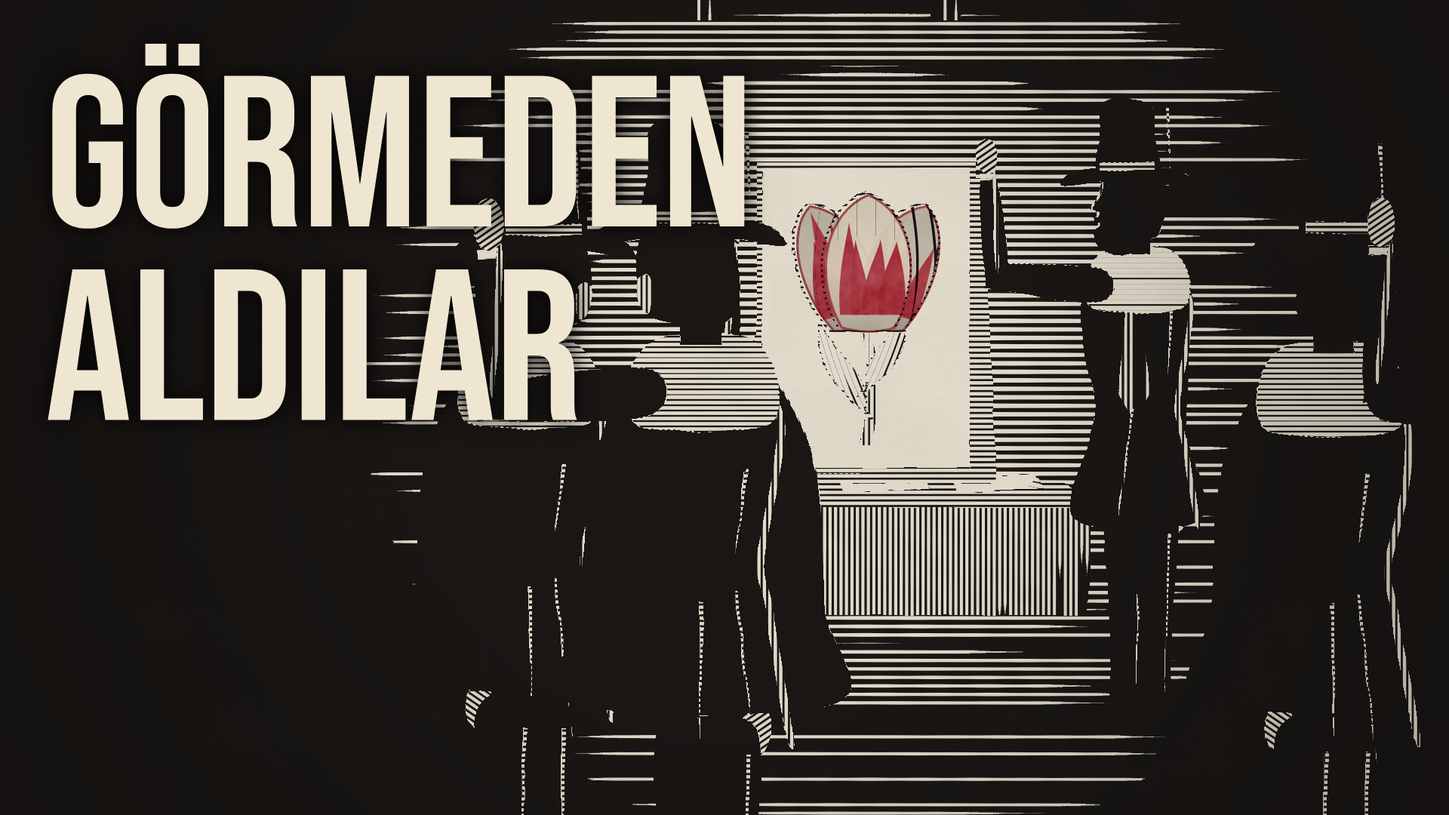
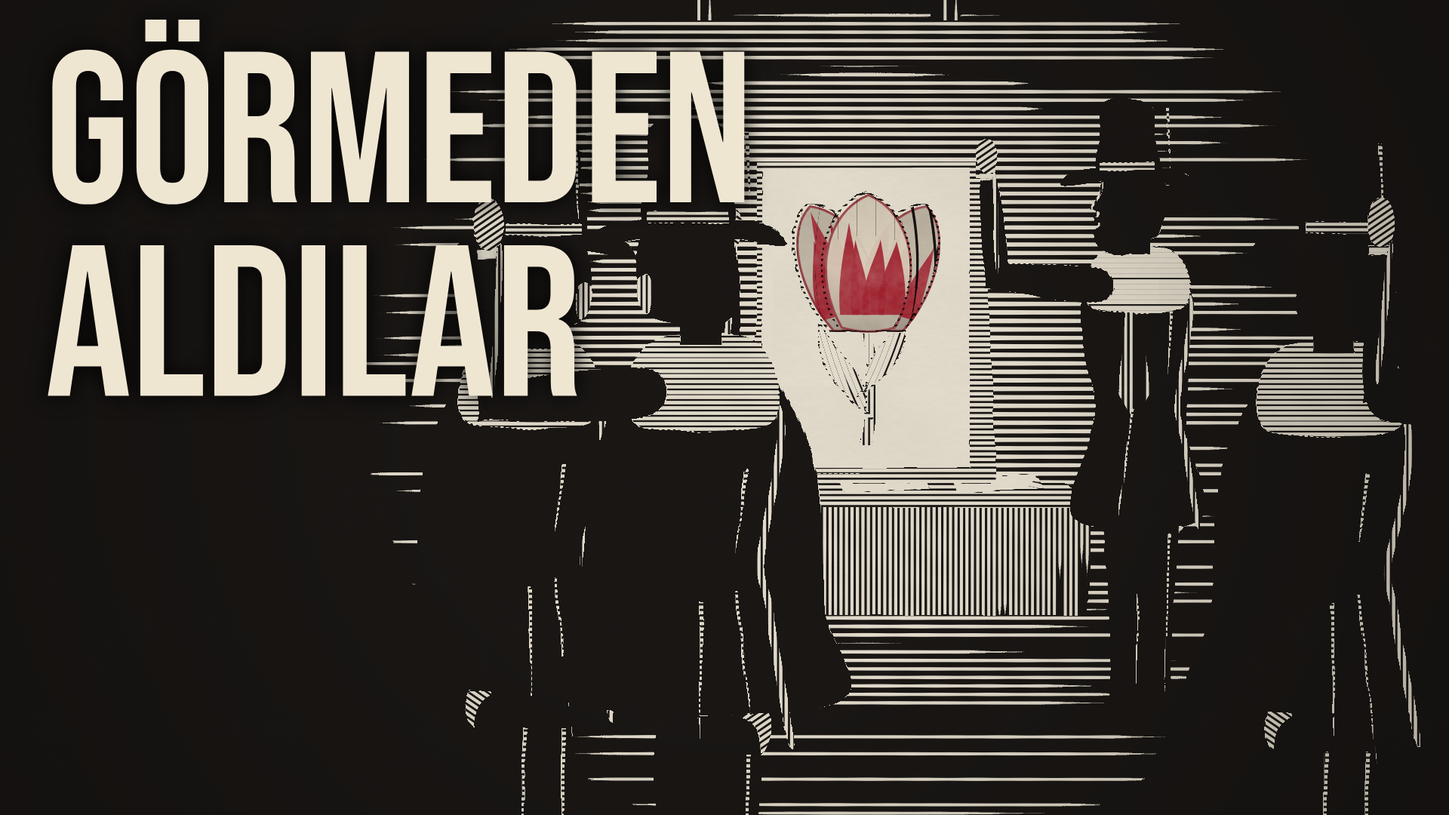
Lale Çılgınlığı: Fable yön okumasının son bulguları
- Meşaleler mızrak ucu gibi okunuyordu (hassasiyet): sargılı baş, geniş gövdeli yana kıvrılan alev, yan yalaz ve kıvılcım; kalabalığın kolları gövdede (sopa okuması), duvar meşalesi demir kolda ve sönünce sargılı başıyla kalıyor
- Zaman çizgisi kadrajın üstünde (0:44'te araba, 5:53'te figürlerle çakışıyordu); 5:53'te sayı yok ('EVE DÖNÜŞ'), anlatımdaki 'doksan yıl'la çelişmiyor
- Hollanda haritası 1,3 kat ve anılan şehrin adı noktanın yanında; harita plan içinde sönmüyor
- Ortalı etiket ve alıntı panelleri şerit: uzun yazının uçları açık zeminde soluk kalıyordu
- Araba tekerleği parmaklı (halka tarama hedef gibiydi); buketteki halka taramalar eğik
- Bacacının kolu dirsekten bükük, lale sapı yumruğun içinden geçiyor (selam okuması)
- Boş planlara eylem: senet masaya iner ve yırtık yukarıdan ilerler; boş sedire iki yandan iki kişi yürür; Ahmed Refik adı anılınca girer (iki ad tek figüre düşmüyor)
- Etiket dili: EL KOYMA, ÇIRAĞAN EĞLENCESİ, HOLLANDA MAHKEMESİ, ÜSKÜDAR'DA SEFER ORDUSU, KRONİKLER; Latin harfli aktarım satırı kaldırıldı
- Alkmaar listesine 5.200'ün neden orada olmadığı notu; Semper Augustus görseli 7 sn, belirgin yaklaşma; Switsers eğrisinin son değeri 2 sn duruyor
- P083 tek kalan para ve P066 yüzen kayık kaldırıldı; kapak B yazısı şapka kenarından 30 px uzak

Claude-Session: https://claude.ai/code/session_01DiDBPDZctK6KxWNTMmyQpA

Changed region(s): [[0.0312, 0.0, 0.5312, 0.5194]]

diff --git a/lale-cilginligi/lib/sahneler.js b/lale-cilginligi/lib/sahneler.js
@@ -35,13 +35,15 @@ const both = (...fs) => (ctx, st) => fs.forEach(f => f && f(ctx, st));
 const buyukYazi = (s, o = {}) => (ctx, st) => { const a = clamp((st.lt - (o.t0 || 0)) / .5); if (a <= 0) return; txt(ctx, s, o.x ?? W / 2, o.y ?? 160, { px: o.px || 96, ls: 6, a: E.sine(a), panel: .75, col: o.col }); };
 // Hollanda haritası (sağ üst köşe): izleyiciler şehirleri karıştırıyordu (Fable); anılan şehir yanar, öbürleri sönük nokta
 const NL = { 'ALKMAAR': [4.75, 52.63], 'HAARLEM': [4.64, 52.38], 'LEIDEN': [4.49, 52.16], 'AMSTERDAM': [4.90, 52.37], 'DEN HAAG': [4.30, 52.08] };
+const NL_YER = { 'ALKMAAR': 'alt', 'HAARLEM': 'alt', 'LEIDEN': 'ust', 'AMSTERDAM': 'alt', 'DEN HAAG': 'sag' };
 const NL_KIYI = [[4.12, 51.98], [4.27, 52.11], [4.39, 52.20], [4.43, 52.25], [4.52, 52.37], [4.57, 52.46], [4.62, 52.62], [4.66, 52.77], [4.70, 52.84]];
 const NL_IC = [[5.16, 52.70], [5.06, 52.63], [5.05, 52.51], [4.98, 52.42], [4.92, 52.39], [5.02, 52.37], [5.16, 52.33]];
 function haritaNL(ctx, st, sehir, o = {}) {
   if (NOTEXT) return;
-  const a = clamp((st.lt - (o.t0 ?? .3)) / .5) * clamp(((o.t1 ?? Math.min(st.d, 6.5)) - st.lt) / .5); if (a <= 0) return;
+  const a = clamp((st.lt - (o.t0 ?? .3)) / .5) * clamp(((o.t1 ?? st.d + 1) - st.lt) / .5); if (a <= 0) return;   // plan içinde sönmez (sönen harita dikkat dağıtıyordu)
   // eski gravür haritası: kara kâğıt rengi, deniz koyu ve yatay taramalı, şehirler mürekkep noktası; anılan şehir halkalı
-  const x0 = 1600, y0 = 56, w = 260, h = 340, mx = x0 + 10, my = y0 + 10, mw = w - 20, mh = h - 58;
+  // 1,3 kat büyütüldü ve anılan şehrin adı noktanın yanına yazılıyor: küçük haritada hangi şehir olduğu okunmuyordu (Fable yön okuması)
+  const x0 = 1520, y0 = 56, w = 340, h = 440, mx = x0 + 12, my = y0 + 12, mw = w - 24, mh = h - 70;
   const P = ([lo, la]) => [mx + 6 + (lo - 4.12) / (5.16 - 4.12) * (mw - 12), my + 6 + (52.84 - la) / (52.84 - 51.98) * (mh - 12)];
   const ink = `rgb(${GR.INK})`;
   ctx.save(); ctx.globalAlpha *= E.sine(a);
@@ -55,9 +57,15 @@ function haritaNL(ctx, st, sehir, o = {}) {
   deniz([...ic, [mx + mw, ic[ic.length - 1][1]], [mx + mw, ic[0][1]]]);                   // Zuiderzee ve IJ
   ctx.strokeStyle = ink; ctx.lineWidth = 3; for (const L of [kiyi, ic]) { ctx.beginPath(); L.forEach((q, i) => i ? ctx.lineTo(q[0], q[1]) : ctx.moveTo(q[0], q[1])); ctx.stroke(); }
   for (const [ad, ll] of Object.entries(NL)) { const [x, y] = P(ll), on = ad === sehir; ctx.fillStyle = ink;
-    ctx.beginPath(); ctx.arc(x, y, on ? 8 : 4.5, 0, TAU); ctx.fill(); if (on) { ctx.beginPath(); ctx.arc(x, y, 17, 0, TAU); ctx.lineWidth = 3; ctx.strokeStyle = ink; ctx.stroke(); } }
+    ctx.beginPath(); ctx.arc(x, y, on ? 9 : 5, 0, TAU); ctx.fill(); if (on) { ctx.beginPath(); ctx.arc(x, y, 19, 0, TAU); ctx.lineWidth = 3; ctx.strokeStyle = ink; ctx.stroke(); } }
+  { const [x, y] = P(NL[sehir]); ctx.font = FONT.baslik(27, 700); ctx.letterSpacing = '2px'; ctx.textBaseline = 'middle';
+    // şehir şehir yer: haritanın içinde kalsın, öbür noktaları örtmesin (Leiden ile Den Haag birbirine yakın)
+    const wd = ctx.measureText(sehir).width, yer = NL_YER[sehir] || 'alt';
+    let tx = yer === 'sag' ? x + 26 : x - wd / 2, ty = yer === 'alt' ? y + 38 : yer === 'ust' ? y - 38 : y; tx = clamp(tx, mx + 8, mx + mw - wd - 8);
+    ctx.fillStyle = PAPER_CSS; ctx.fillRect(tx - 6, ty - 18, wd + 12, 36); ctx.strokeStyle = ink; ctx.lineWidth = 2; ctx.strokeRect(tx - 6, ty - 18, wd + 12, 36);
+    ctx.fillStyle = ink; ctx.textAlign = 'left'; ctx.fillText(sehir, tx, ty + 1); ctx.letterSpacing = '0px'; }
   ctx.strokeStyle = PAPER_CSS; ctx.lineWidth = 2; ctx.strokeRect(x0 + 4, y0 + 4, w - 8, h - 8);
-  txt(ctx, 'HOLLANDA', x0 + w / 2, y0 + h - 24, { px: 28, ls: 6 });
+  txt(ctx, 'HOLLANDA', x0 + w / 2, y0 + h - 29, { px: 32, ls: 6 });
   ctx.restore();
 }
 const hrt = (sehir, o) => (ctx, st) => haritaNL(ctx, st, sehir, o);
@@ -137,7 +145,7 @@ PL('P008', 'A07', 'GAZ', 'ayrinti', st => ({ cam: camLerp(CAM(960, 500, 1.25), C
 function zamanCizgisi(ctx, st, k, o = {}) {
   if (NOTEXT) return;
   const a = clamp((st.lt - (o.t0 ?? .3)) / .5) * clamp(((o.t1 ?? 4.8) - st.lt) / .6); if (a <= 0) return;
-  const x0 = 520, x1 = 1400, y = o.y ?? 806, X = yil => x0 + (yil - 1554) / (1730 - 1554) * (x1 - x0);
+  const x0 = 520, x1 = 1400, y = o.y ?? 178, X = yil => x0 + (yil - 1554) / (1730 - 1554) * (x1 - x0);
   ctx.save(); ctx.globalAlpha *= E.sine(a);
   softBand(ctx, x0 - 30, x1 + 30, y - 6, 80, 78, .8);
   ctx.strokeStyle = PAPER_CSS; ctx.lineWidth = 3; ctx.beginPath(); ctx.moveTo(x0, y); ctx.lineTo(x1, y); ctx.stroke();
@@ -149,7 +157,7 @@ function zamanCizgisi(ctx, st, k, o = {}) {
   ctx.restore();
 }
 PL('P010', 'B01', 'YOL', 'genis', st => ({ cam: camLerp(CAM(900, 560, 1), CAM(1060, 620, 1.12), st.p), bg: [.9, 0, 10], ciz: () => SET2.kisYolu({ t: st.t }) }),
-  { over: both(kartOver('B01'), (ctx, st) => zamanCizgisi(ctx, st, W_(st, 'B01', 'geriye')), etk('1554–55 KIŞI · EDİRNE–İSTANBUL YOLU', { t0: 3.4 })) });
+  { over: both(kartOver('B01'), (ctx, st) => zamanCizgisi(ctx, st, W_(st, 'B01', 'geriye')), etk('1554–55 KIŞI · EDİRNE–İSTANBUL YOLU', { t0: 5.0 })) });
 PL('P011', 'B01@demet', 'YOL', 'yakin', st => ({ cam: camLerp(CAM(960, 560, 1.15), CAM(960, 520, 1.25), st.p), bg: [.85, 0, 10], ciz: () => {
   GR.fill(SET.R(-200, -200, 2400, 1500), GR.tone(.88), { th: -.03, id: 10 });
   SET2.osmanli({ x: 520, y: 1220, h: 900, yon: 1, sapka: 'sarik', kenar: .4, kolOn: { a: 1.3, b: .5 } });
@@ -208,11 +216,11 @@ PL('P023', 'C04', 'ALE', 'yakin', st => ({ cam: camLerp(CAM(960, 600, 1.2), CAM(
   SET2.kesit(st.t); for (let k = 0; k < 3; k++) { const a = 1 - clamp((st.lt - 1 - k * .6) / 1.2); if (a > 0) LALE.sogan(1160 + k * 70, 900 + k * 10, .4 * a + .05, { ton: .6 }); }
 } }));
 // C05 başı: gerçek görsel. Anonim, Semper Augustus suluboyası (1640 öncesi; Norton Simon Müzesi; Commons, kamu malı). Renk lalede: kural bozulmaz
-PL('P024a', 'C05', 'SEM', 'ayrinti', st => ({ cam: camLerp(CAM(960, 470, 1.0), CAM(960, 420, 1.12), st.p), bg: [.06, 0, 10], ciz: () => { GR.fill(SET.R(-200, -200, 2400, 1500), GR.tone(.05), { th: 0, id: 10 }); },
+PL('P024a', 'C05', 'SEM', 'ayrinti', st => ({ cam: camLerp(CAM(960, 470, 1.0), CAM(960, 400, 1.22), st.p),   /* 7 sn: belirgin yaklaşma */ bg: [.06, 0, 10], ciz: () => { GR.fill(SET.R(-200, -200, 2400, 1500), GR.tone(.05), { th: 0, id: 10 }); },
   // koyu duvar: künye (beyaz yazı) okunur; görsel künyenin altından başlar
   sonra: (ctx, cam) => { SET2.gorsel(ctx, cam, 'semper', 725, 150, 470, { golge: true }); } }),
   { over: etk('SEMPER AUGUSTUS · ANONİM SULUBOYA, 1640 ÖNCESİ', { px: 36 }) });
-PL('P024', 'C05@bin', 'AYN', 'orta', st => ({ cam: camLerp(CAM(960, 520, 1), CAM(960, 520, 1.12), st.p), bg: [.2, 0, 0], ciz: () => SET2.aynaKabine(st.t) }),
+PL('P024', 'C05@düzine', 'AYN', 'orta', st => ({ cam: camLerp(CAM(960, 520, 1), CAM(960, 520, 1.12), st.p), bg: [.2, 0, 0], ciz: () => SET2.aynaKabine(st.t) }),
   { over: (ctx, st) => { const k = W_(st, 'C05', 'bin', 1); buyukYazi('1.200 GULDEN', { y: 800, px: 84, t0: k })(ctx, st); } });
 PL('P025', 'C06', 'KES', 'yakin', st => { const g = io((st.lt - 1.6) / .8); return { cam: camLerp(CAM(960, 620, 1.3), CAM(960, 620, 1.4), st.p), bg: [.15, 0, 0], ciz: () => {
   SET2.masaUst(500, { ton: .2 }); SET2.kese(860 + g * 160, 760, 1.6); SET2.para(1200, 760, 6, 1.2);
@@ -248,7 +256,7 @@ PL('P034', 'D05', 'ODA', 'yakin', st => ({ cam: camLerp(CAM(960, 540, 1.0), CAM(
   sonra: (ctx, cam) => { SET2.gorsel(ctx, cam, 'mwMeyhane', 160, 60, 1600, { kirp: [0, 0, 1, .86] }); } }),
   { over: etk('HAARLEM MEYHANESİNDE ÇİÇEKÇİLER · 1637 GRAVÜRÜ', { y: 120, px: 36 }) });
 // Switsers: fiyat çizgisi gibi yükselen sap; renk koyulaşır
-PL('P035', 'D06', 'SWI', 'ayrinti', st => { const u = io((st.lt - .5) / Math.max(1, st.d - 1)); return { cam: camLerp(CAM(960, 560, 1), CAM(960, 556, 1.05), st.p), bg: [.88, 0, 10], ciz: () => {
+PL('P035', 'D06', 'SWI', 'ayrinti', st => { const u = io((st.lt - .5) / Math.max(1, st.d - 2.6)); /* son değer ~2 sn durur */ return { cam: camLerp(CAM(960, 560, 1), CAM(960, 556, 1.05), st.p), bg: [.88, 0, 10], ciz: () => {
   GR.fill(SET.R(-200, -200, 2400, 1500), GR.tone(.93), { th: 0, id: 10 });
   for (let k = 0; k < 6; k++) GR.fill(SET.R(260, 800 - k * 118, 1400, 2), GR.tone(.5), { th: 0, id: 9 });
   // eğri soldan sağa büyür ve hep yükselir (önceki çizimde ilk saniyede uç aşağı iniyordu: fiyat artarken düşüş)
@@ -266,6 +274,7 @@ PL('P037', 'D08', 'LIS', 'ayrinti', st => { const k = W_(st, 'D08', 'kâğıt');
   GR.fill(SET.R(600, 255, 720, 220), GR.tone(1), { th: 0, id: 10 });   // satırların arkası temiz kâğıt
   const L = [['Viceroy', '4203'], ['Bruyn Purper', '2025'], ['Paragon van Delft', '605'], ['…', '']];
   L.forEach(([a, b], i) => { YAZI.ekle(a, 640, 290 + i * 52, { font: 'serif', px: 32 }); YAZI.ekle(b ? b + ' gl.' : '', 1280, 290 + i * 52, { font: 'serif', px: 32, align: 'right' }); });
+  YAZI.ekle('mezattan önce, ayrı satış: Admirael van Enkhuizen · 5200 gl.', 960, 520, { font: 'el', px: 30, align: 'center', a: clamp((st.lt - 1.2) / .6) });
   YAZI.ekle('90.000', 960, 620, { font: 'baslik', px: 64, align: 'center', a: clamp(st.lt / .8) });
   for (let i = 0; i < 7; i++) { const a = clamp((st.lt - k - i * .12) / .4); if (a > 0) SET2.para(640 + i * 105, 760, 3 + Math.round(a * 3), .8); }
 } }; });
@@ -305,7 +314,7 @@ PL('P044', 'E05', 'MAH', 'genis', st => ({ cam: camLerp(CAM(960, 520, 1), CAM(96
   for (let k = 0; k < 6; k++) GR.fill(SET.R(420 + k * 210, 330, 60, 570), GR.tone(.7), { th: HV_, id: 9 });
   GR.fill(SET.R(860, 640, 200, 260), GR.tone(.03), { th: HV_, id: 9 });
   GR.fill(SET.R(-600, 900, 3100, 600), GR.tone(.5), { type: 'persp', y0: 900, D: 200, p0: 8, p1: 15, id: 8 });
-} }), { over: both(etk('HOF VAN HOLLAND · DEN HAAG'), hrt('DEN HAAG')) });
+} }), { over: both(etk('HOLLANDA MAHKEMESİ · DEN HAAG'), hrt('DEN HAAG')) });
 PL('P045', 'E06', 'KAR', 'ayrinti', st => ({ cam: camLerp(CAM(960, 520, 1.2), CAM(960, 520, 1.3), st.p), bg: [.2, 0, 0], renk: 0, ciz: () => {
   SET2.masaUst(-300, { ton: .2 }); SET2.sayfa(620, 140, 680, 760, { ton: .95, cerceve: true });
   YAZI.ekle('Haerlem, 1638', 960, 250, { font: 'baslik', px: 36, align: 'center' }); SET2.satirlar(680, 320, 560, 7, 34);
@@ -351,7 +360,7 @@ PL('P054', 'F05', 'RIH', 'orta', st => { const k = W_(st, 'F05', 'yiyor'); const
 } }; }, { over: (ctx, st) => { const k = W_(st, 'F05', 'semper'); etiket(ctx, 'SEMPER AUGUSTUS', 1770, 120, st.lt - k, st.d - k, { align: 'right' }); } });
 PL('P055', 'F06', 'BAC', 'yakin', st => ({ cam: camLerp(CAM(1000, 560, 1.15), CAM(1040, 500, 1.25), st.p), bg: [.88, 0, 10], ciz: () => {
   SET.gok({ gun: 1, ufuk: 1000 }); SET.ev(-100, 1100, 1300, 700, { ton: .25, basamak: 4, kat: 3 }); SET2.bacaci(900, 1040, st.t);
-} }), { over: (ctx, st) => quote(ctx, '“… bacacılar bile …”', W / 2 + 300, 750, st.lt, { px: 56, kaynak: 'MACKAY, 1841', maxW: 900 }) });
+} }), { over: (ctx, st) => quote(ctx, '“… bacacılar bile …”', W / 2 + 300, 750, st.lt, { px: 56, kaynak: 'MACKAY, 1841', maxW: 900, t0: Math.max(0, W_(st, 'F06', 'bacacılar') - .2) }) });
 PL('P056', 'F07', 'KIT', 'genis', st => ({ cam: camLerp(CAM(960, 560, 1), CAM(960, 400, 1.15), st.p), bg: [.15, 0, 0], renk: 0, ciz: () => {
   SET2.masaUst(820, { ton: .2 }); GR.fill(SET.R(-600, -500, 3100, 1320), GR.tone(.1), { th: 0, id: 0 });
   const n = Math.min(9, 2 + Math.floor(st.lt * 1.4)); for (let i = 0; i < n; i++) SET2.kitap(700 - (i % 2) * 20, 760 - i * 66, 520, 60, { ton: .1 + (i % 3) * .2 });
@@ -371,7 +380,8 @@ PL('P059', 'F10', 'ISI', 'genis', st => ({ cam: camLerp(CAM(960, 540, 1), CAM(96
 } }), { over: etk('AŞAĞI YUKARI 350 KİŞİ') });
 PL('P05A', 'F11', 'SOZ', 'yakin', st => { const k = W_(st, 'F11', 'tutulmayan'); const y = io((st.lt - k) / 1.0); return { cam: camLerp(CAM(960, 560, 1.15), CAM(960, 560, 1.25), st.p), bg: [.2, 0, 0], renk: 0, ciz: () => {
   SET2.masaUst(-300, { ton: .2 });
-  const x0 = 760, y0 = 250, w = 400, h = 500, sx = x0 + w / 2, cy = y0 + h / 2, J = [];
+  const ini = (1 - E.out3(clamp(st.lt / 1.1))) * -70, cr = clamp((st.lt - k + 1.5) / 1.4);
+  const x0 = 760, y0 = 250 + ini, w = 400, h = 500, sx = x0 + w / 2, cy = y0 + h / 2, J = [];
   for (let i = 0; i <= 14; i++) J.push([(i % 2 ? 13 : -11) + Math.sin(i * 2.3) * 5, -h / 2 + i * h / 14]);
   for (const sg of [-1, 1]) {   // senedin iki yarısı: yırtık kenar ortada, yarılar yana açılıp döner
     const kx = (sg < 0 ? x0 : x0 + w) - sx, pts = [[kx, -h / 2], ...J, [kx, h / 2]];
@@ -380,6 +390,9 @@ PL('P05A', 'F11', 'SOZ', 'yakin', st => { const k = W_(st, 'F11', 'tutulmayan');
     for (let i = 0; i < 7; i++) GR.fill(SET.R(sg < 0 ? kx + 34 : 34, -110 + i * 38, sg < 0 ? 150 - (i % 3) * 20 : 130 - (i % 2) * 24, 3), GR.tone(.25), { th: 0, id: 9 });
     GR.restore();
   }
+  if (y < .02 && cr > 0) { const n = Math.max(1, Math.round(cr * 14)); GR.save(); GR.frame(sx, cy, 0, 1, 1);   // yırtık çizgisi
+    for (let i = 0; i < n; i++) { const [ax, ay] = J[i], [bx, by] = J[i + 1]; GR.fill(INSAN.F([[ax - 2.5, ay], [bx - 2.5, by], [bx + 2.5, by], [ax + 2.5, ay]]), GR.tone(.08), { th: 0, id: 9 }); }
+    GR.restore(); }
   YAZI.ekle('te betalen in Junij', x0 + 28 - y * 150, y0 + 100 + y * 10, { font: 'el', px: 34, rot: -y * .14 });
 } }; });
 PL('P05B', 'F11@yıkımı', 'KIT', 'genis', st => ({ cam: camLerp(CAM(960, 520, 1), CAM(960, 420, 1.12), st.p), bg: [.15, 0, 0], renk: 0, ciz: () => {
@@ -393,7 +406,7 @@ PL('P060', 'G01', 'IST', 'orta', st => ({ cam: camLerp(CAM(960, 560, 1), CAM(100
   SET2.osmanli({ x: 520, y: 1040, h: 560, yon: 1, kenar: .5, sakal: true, kolOn: { a: .3, b: .5 } });
   SET2.osmanli({ x: 720, y: 1040, h: 520, yon: 1, kenar: .5, sakal: true, kolOn: { a: .8, b: .7 } });
   for (let x = 1100; x < 1900; x += 110) LALE.ciz(x, 1000, .8, { sap: 80, tip: 'ist', cesit: x % 220 ? 'ist' : 'istSari' });
-} }), { over: both(kartOver('G01'), (ctx, st) => zamanCizgisi(ctx, st, .5, { from: 1637, to: 1718, yazi: 'SEKSEN YIL SONRA →' }), etk('III. AHMED · NEVŞEHİRLİ DAMAT İBRAHİM PAŞA · 1718', { t0: 3.4, px: 38 })) });
+} }), { over: both(kartOver('G01'), (ctx, st) => zamanCizgisi(ctx, st, .5, { from: 1637, to: 1718, yazi: 'EVE DÖNÜŞ →' }), etk('III. AHMED · NEVŞEHİRLİ DAMAT İBRAHİM PAŞA · 1718', { t0: 4.9, px: 38 })) });
 PL('P061', 'G02', 'SAA', 'genis', st => { const u = io(st.lt / Math.max(2, st.d - .5)); return { cam: camLerp(CAM(960, 600, 1.1), CAM(960, 580, 1.2), st.p), bg: [.9, 0, 10], ciz: () => {
   SET.gok({ gun: 1, ufuk: 700 });
   GR.fill(SET.R(-600, 700, 3100, 140), GR.tone(.72), { th: .01, id: 8 });
@@ -409,7 +422,7 @@ PL('P062', 'G03', 'GEC', 'orta', st => ({ cam: camLerp(CAM(960, 620, 1.05), CAM(
   for (let r = 0; r < 3; r++) for (let x = 120; x < 1850; x += 110) LALE.ciz(x + r * 40, 800 + r * 90, .6 + r * .2, { tip: 'ist', sap: 60 + r * 20, cesit: r === 1 ? 'istSari' : 'ist', ac: .1 });
   for (let x = 160; x < 1850; x += 220) { SET.kandil(x, 760, st.t + x, 1.2); SET.isik({ x, y: 760, r1: 170, a: .6 }); }
   const kx = 300 + st.lt * 60; SET.kaplumbaga(kx, 872, 1.5, st.t); SET.isik({ x: kx, y: 760, r1: 260, a: .8 });
-} }), { over: etk('ÇIRAĞAN · ANLATILANLARA GÖRE') });
+} }), { over: etk('ÇIRAĞAN EĞLENCESİ · ANLATILANLARA GÖRE') });
 PL('P063', 'G04', 'NIZ', 'yakin', st => ({ cam: camLerp(CAM(960, 520, 1.1), CAM(960, 480, 1.2), st.p), bg: [.88, 0, 10], ciz: () => {
   GR.fill(SET.R(-200, -200, 2400, 1500), GR.tone(.9), { th: 0, id: 10 }); SET.isik({ x: 960, y: 400, r1: 800, a: .5 });
   LALE.ciz(960, 520, 2.6, { sap: 420, tip: 'ist', cesit: 'ist', ac: .05, egim: Math.sin(st.t * .7) * .02 });
@@ -428,13 +441,13 @@ function narhDefteri(st, o = {}) {
   LALE.ciz(1250, 520, 1.6, { sap: 150, tip: 'ist', cesit: 'ist', ac: .05 });
 }
 PL('P065', 'G06', 'NAR', 'ayrinti', st => ({ cam: camLerp(CAM(960, 520, 1.05), CAM(900, 480, 1.15), st.p), bg: [.2, 0, 0], ciz: () => narhDefteri(st) }),
-  { over: both(etk('İSTANBUL KADILIĞI DEFTERİ · 28 HAZİRAN 1726', { px: 38, y: 100 }), (ctx, st) => etiket(ctx, 'Latin harfli aktarım: M. Münir Aktepe, 1953', W / 2, 830, st.lt - 1, st.d - 1, { align: 'center', px: 30 })) });
+  { over: etk('İSTANBUL KADILIĞI DEFTERİ · 28 HAZİRAN 1726', { px: 38, y: 100 }) });
 PL('P066', 'G07', 'SUR', 'orta', st => ({ cam: camLerp(CAM(960, 600, 1.05), CAM(1060, 620, 1.15), st.p), bg: [.85, 0, 10], ciz: () => {
-  SET2.bogaz(st.t, { kosk: false, servi: [[200, 420]] }); SET2.gemi(1660, 690, .9, st.t);
+  SET2.bogaz(st.t, { kosk: false, servi: [[200, 420]], kayik: false }); SET2.gemi(1660, 690, .9, st.t);
   SET2.osmanli({ x: 700, y: 1040, h: 560, yon: -1, sapka: 'kavuk', kenar: .45, kenarYan: -1, kolOn: { a: .95, b: .95 } });
   SET.saksi(590, 880, .7); LALE.ciz(590, 830, .6, { sap: 40, tip: 'ist', cesit: 'ist' });
   SET2.osmanli({ x: 1080 + st.lt * 20, y: 1040, h: 520, yon: 1, arka: true, sapka: 'sarik', kenar: .4, adim: st.t * .8 });
-} }), { over: etk('NARHIN ÜSTÜNDE SATANA: MÜSADERE VE SÜRGÜN') });
+} }), { over: etk('NARHIN ÜSTÜNDE SATANA: EL KOYMA VE SÜRGÜN') });
 PL('P067', 'G08', 'NAR', 'yakin', st => ({ cam: camLerp(CAM(620, 380, 1.6), CAM(700, 460, 1.4), st.p), bg: [.2, 0, 0], ciz: () => narhDefteri(st) }),
   { over: (ctx, st) => { const k = W_(st, 'G08', 'üç'); buyukYazi('≈ 300 YEVMİYE', { y: 800, px: 84, t0: k })(ctx, st); } });
 PL('P068', 'G09', 'NAR', 'ayrinti', st => { const k = W_(st, 'G09', 'dört'); return { cam: camLerp(CAM(700, 380, 1.5), CAM(720, 380, 1.6), st.p), bg: [.2, 0, 0], ciz: () => {
@@ -445,14 +458,14 @@ PL('P068', 'G09', 'NAR', 'ayrinti', st => { const k = W_(st, 'G09', 'dört'); re
 
 // ═════════ 7. 1730 ═════════
 PL('P070', 'H01', 'CAD', 'genis', st => ({ cam: camLerp(CAM(960, 540, 1), CAM(1040, 540, 1.1), st.p), bg: [.8, 0, 10], ciz: () => SET2.cadirlar(st.t) }),
-  { over: both(kartOver('H01'), etk('ÜSKÜDAR · EYLÜL 1730', { t0: 3.4 })) });
+  { over: both(kartOver('H01'), etk('ÜSKÜDAR\'DA SEFER ORDUSU · EYLÜL 1730', { t0: 3.4 })) });
 PL('P071', 'H02', 'BEY', 'orta', st => { const kb = W_(st, 'H02', 'kalabalık'); const b = io((st.lt - kb + 1.2) / 2.4); return { cam: camLerp(CAM(960, 620, 1.1), CAM(960, 640, 1.0), st.p), bg: [.3, 0, 0], renk: 0, ciz: () => {
   SET2.carsi(st.t, { lale: false }); SET2.kalabalik(st.t, { n: 3 + Math.floor(b * 13), mesale: 0, karisik: true });
   SET2.osmanli({ x: 820, y: 1200, h: 780, yon: 1, arka: true, sapka: 'sarik', sarikTon: .3, kenar: .6, kolOn: { a: .25, b: .3 } });
   // (eski giysi çıkını kaldırıldı: üç denemede de hale ya da kalkan okundu; Patrona önde, büyük ve künyesiyle ayrılıyor)
 } }; }, { over: etk('BEYAZIT · 28 EYLÜL 1730 · PATRONA HALİL') });
 PL('P072', 'H03', 'SAR', 'genis', st => { const k = W_(st, 'H03', 'ekimin'); return { cam: camLerp(CAM(960, 560, 1), CAM(960, 520, 1.12), st.p), bg: [.05, 0, 1], ciz: () => SET2.sarayKapi(st.t, { kandil: 1 - clamp((st.lt - k - 1.2) / 1.4), duvar: .32, kandilS: 2.0 }) }; },
-  { over: (ctx, st) => { const k = W_(st, 'H03', 'ekimin'); etiket(ctx, '1 EKİM 1730', 150, 120, st.lt - k, st.d - k, { align: 'left' }); } });
+  { over: (ctx, st) => { const k = W_(st, 'H03', 'ekimin'); etiket(ctx, '1 EKİM 1730', 150, 120, st.lt - k, st.d - k, { align: 'left', panel: .97 }); } });
 PL('P073', 'H04', 'SED', 'orta', st => ({ cam: camLerp(CAM(960, 600, 1.1), CAM(960, 620, 1.18), st.p), bg: [.12, 0, 0], ciz: () => {
   SET2.sedir(st.t); SET2.osmanli({ x: 1300 + st.lt * 60, y: 1040, h: 600, yon: 1, arka: true, kenar: .5, adim: st.t * .6 });
 } }), { over: etk('2 EKİM 1730 · TAHT I. MAHMUD\'A') });
@@ -474,13 +487,13 @@ PL('P080', 'I02', 'KRO', 'ayrinti', st => ({ cam: camLerp(CAM(960, 540, 1.05), C
   for (let i = 0; i < 9; i++) SET2.kitap(300 + i * 150, 300, 120, 560, { ton: .12 + (i % 3) * .12 });
   [[1, 'TÂRÎH-İ RÂŞİD'], [4, 'TÂRÎH-İ ÇELEBİZÂDE'], [7, 'TÂRÎH-İ SUBHÎ']].forEach(([i, ad]) => { GR.fill(SET.R(318 + i * 150, 360, 84, 440), GR.tone(.9), { th: HV_, id: 10 }); YAZI.ekle(ad, 360 + i * 150, 580, { font: 'baslik', px: 30, align: 'center', rot: -Math.PI / 2 }); });   // sırt etiketi (açık kâğıt, koyu yazı: baskı katmanı çarpmayla basılır)
   SET.isik({ x: 960, y: 400, r1: 900, a: .5 });
-} }), { over: both(kartOver('I02'), etk('ON SEKİZİNCİ YÜZYIL VAKAYİNAMELERİ', { t0: 3.4, px: 38 })) });
+} }), { over: both(kartOver('I02'), etk('ON SEKİZİNCİ YÜZYIL KRONİKLERİ', { t0: 3.4, px: 38 })) });
 PL('P081', 'I03', 'IKD', 'orta', st => ({ cam: camLerp(CAM(960, 540, 1), CAM(960, 500, 1.12), st.p), bg: [.15, 0, 0], ciz: () => {
   SET2.masaUst(-300, { ton: .18 }); SET2.gazete(420, 100, 760, 880);
   YAZI.ekle('İKDAM', 800, 200, { font: 'baslik', px: 80, align: 'center', ls: 10 }); YAZI.ekle('1913', 1000, 206, { font: 'serif', px: 32 });
   YAZI.ekle('Lâle Devri', 800, 268, { font: 'baslik', px: 46, align: 'center', a: clamp((st.lt - W_(st, 'I03', 'ahmed')) / .5) });
   LALE.ciz(800, 560, .9, { sap: 40, tip: 'ist', cesit: 'ist', yaprakYok: true, renk: clamp((st.lt - W_(st, 'I03', 'ahmed')) / 1.2) });
-  INSAN.adam({ x: 1500, y: 1060, h: 700, yon: -1, kenar: .45, kenarYan: -1, kolOn: { a: .9, b: .95 }, biyik: true, sapka: 'fes' });
+  { const g = io((st.lt - W_(st, 'I03', 'ahmed') + .2) / 1.6); if (g > 0) INSAN.adam({ x: 2150 - 650 * g, y: 1060, h: 700, yon: -1, kenar: .45, kenarYan: -1, kolOn: { a: .9, b: .95 }, biyik: true, sapka: 'fes', adim: g < 1 ? st.t * 2.2 : null }); }   // Ahmed Refik adı anılınca girer: Yahya Kemal etiketi boş kareye düşer, iki ad tek figüre düşmez
 } }), { over: (ctx, st) => { etiket(ctx, 'ŞAİR YAHYA KEMAL', 150, 92, st.lt, W_(st, 'I03', 'ahmed'), { align: 'left' }); const k = W_(st, 'I03', 'ahmed'); etiket(ctx, 'TARİHÇİ AHMED REFİK', 1770, 92, st.lt - k, st.d - k, { align: 'right' }); } });
 PL('P082', 'I04', 'KIT', 'yakin', st => ({ cam: camLerp(CAM(960, 560, 1.15), CAM(960, 520, 1.25), st.p), bg: [.15, 0, 0], ciz: () => {
   SET2.masaUst(-300, { ton: .16 }); SET2.kitap(360, 160, 1200, 760, { acik: true });
@@ -495,7 +508,6 @@ PL('P083', 'I05', 'NAR', 'orta', st => { const g = io((st.lt - 2) / 1.5); return
   YAZI.ekle('rivayet: 500–1000 altın', 990, 236, { font: 'el', px: 46, a: clamp((st.lt - .6) / .5) });
   if (st.lt > 1.6) GR.fill(SET.R(984, 230, 460 * clamp((st.lt - 1.6) / .5), 5), GR.tone(.1), { th: 0, id: 9 });
   YAZI.ekle('belge: 50 kuruş', 990, 316, { font: 'el', px: 54, renk: [130, 20, 20], a: clamp((st.lt - 2.1) / .5) });
-  SET2.para(1500, 860, Math.max(1, Math.round(14 * (1 - g) + 1)), 1.0);
 } }; }, { over: both(etk('M. MÜNİR AKTEPE · TARİH DERGİSİ, 1953', { y: 100 }), (ctx, st) => quote(ctx, '“Bu rivayetin doğruluğunu isbat edecek bir vesika da ortada yoktur.”', W / 2, 790, st.lt - 2.5, { px: 46, maxW: 1500 })) });
 PL('P084', 'I06', 'DER', 'yakin', st => ({ cam: camLerp(CAM(960, 560, 1.12), CAM(960, 540, 1.22), st.p), bg: [.15, 0, 0], ciz: () => {
   SET2.masaUst(-300, { ton: .2 }); SET2.kitap(360, 160, 1200, 760, { acik: true });
@@ -518,7 +530,11 @@ PL('P086', 'I08', 'KAG', 'genis', st => { const k = W_(st, 'I08', 'sonradan'); c
   YAZI.ekle('SEFAHAT ÇAĞI', 960, 200 + d * 900, { font: 'baslik', px: 56, align: 'center', a: clamp(1 - d * 1.7) });
 } }; });
 
-PL('P086b', 'I08@ona', 'SED', 'yakin', st => ({ cam: camLerp(CAM(860, 620, 1.45), CAM(980, 640, 1.6), st.p), bg: [.12, 0, 0], renk: 0, ciz: () => SET2.sedir(st.t) }));
+PL('P086b', 'I08@ona', 'SED', 'yakin', st => { const g = io((st.lt - .3) / 3.2); return { cam: camLerp(CAM(860, 620, 1.45), CAM(980, 640, 1.6), st.p), bg: [.12, 0, 0], renk: 0, ciz: () => {
+  SET2.sedir(st.t);
+  SET2.osmanli({ x: 120 + 330 * g, y: 1000, h: 560, yon: 1, sapka: 'kavuk', kenar: .45, kolOn: { a: .15, b: .2 }, adim: g < 1 ? st.t * 1.6 : null });
+  SET2.osmanli({ x: 1760 - 300 * g, y: 1000, h: 545, yon: -1, sapka: 'sarik', kenar: .45, kenarYan: -1, kolOn: { a: .15, b: .2 }, adim: g < 1 ? st.t * 1.6 + 1 : null });
+} }; });   // boş sedire iki yandan iki kişi yürür: 'iktidar kavgası' olay olarak (boş sedir eylemsizdi: Fable yön okuması)
 
 // ═════════ 9. SON ═════════
 PL('P090', 'J02', 'KIT', 'orta', st => ({ cam: camLerp(CAM(960, 540, 1), CAM(960, 540, 1.1), st.p), bg: [.15, 0, 0], ciz: () => {

diff --git a/lale-cilginligi/lib/setler2.js b/lale-cilginligi/lib/setler2.js
@@ -48,7 +48,10 @@ const SET2 = (() => {
     const ax = 1060 + Math.sin(t * .6) * 4, ay = 860;
     fill(R(ax - 120, ay - 170, 240, 130), .08, { th: HV, id: 9 }); fill(R(ax - 90, ay - 150, 70, 60), .7, { th: HV, id: 10 });
     fill(F([[ax - 140, ay - 180], [ax + 140, ay - 180], [ax + 120, ay - 196], [ax - 120, ay - 196]]), .04, { th: H0, id: 9 });
-    for (const dx of [-90, 90]) { fill(E2(ax + dx, ay - 30, 46, 46), .06, { type: 'rad', cx: ax + dx, cy: ay - 30, id: 9 }); fill(E2(ax + dx, ay - 30, 30, 30), .6, { type: 'rad', cx: ax + dx, cy: ay - 30, id: 9 }); }
+    // tekerlek: koyu çember + parmaklar + göbek (halka tarama hedef tahtası gibi okunuyordu: Fable yön okuması, hassasiyet)
+    for (const dx of [-90, 90]) { const cx = ax + dx, cy = ay - 30; fill(E2(cx, cy, 46, 46), .06, { th: H0, id: 9 }); fill(E2(cx, cy, 36, 36), .72, { th: H0, id: 10 });
+      for (let k = 0; k < 4; k++) { const a = k * PI / 4 + t * .8, c = Math.cos(a), sn = Math.sin(a); fill(F([[cx - c * 36 - sn * 3.5, cy - sn * 36 + c * 3.5], [cx + c * 36 - sn * 3.5, cy + sn * 36 + c * 3.5], [cx + c * 36 + sn * 3.5, cy + sn * 36 - c * 3.5], [cx - c * 36 + sn * 3.5, cy - sn * 36 - c * 3.5]]), .06, { th: H0, id: 9 }); }
+      fill(E2(cx, cy, 9, 9), .06, { th: H0, id: 9 }); }
     at(ax + 260, ay, 1, 1, t);
   }
   // at silueti (yandan): gövde, boyun, baş, dört bacak; t ile hafif adım
@@ -66,9 +69,9 @@ const SET2 = (() => {
     // nergisler: altı yapraklı beyaz yıldız + göbek
     for (const [dx, dy] of [[-120, -240], [110, -250], [-40, -300]]) { const cx = x + dx * s, cy = y + dy * s;
       for (let k = 0; k < 6; k++) { const a = k * PI / 3 + .2; fill(Sm([[cx, cy], [cx + Math.cos(a - .25) * 34 * s, cy + Math.sin(a - .25) * 34 * s], [cx + Math.cos(a) * 46 * s, cy + Math.sin(a) * 46 * s], [cx + Math.cos(a + .25) * 34 * s, cy + Math.sin(a + .25) * 34 * s]]), .93, { type: 'rad', cx, cy, id: 10 }); }
-      fill(E2(cx, cy, 13 * s, 13 * s), .55, { type: 'rad', cx, cy, id: 9 }); }
+      fill(E2(cx, cy, 13 * s, 13 * s), .55, { th: .7, id: 9 }); }
     // sümbül: küçük çan dizisi
-    { const cx = x + 40 * s, cy = y - 330 * s; for (let k = 0; k < 9; k++) fill(E2(cx + (k % 2 ? 12 : -12) * s, cy + k * 16 * s, 11 * s, 9 * s), .6, { type: 'rad', cx, cy, id: 9 }); }
+    { const cx = x + 40 * s, cy = y - 330 * s; for (let k = 0; k < 9; k++) fill(E2(cx + (k % 2 ? 12 : -12) * s, cy + k * 16 * s, 11 * s, 9 * s), .6, { th: .7, id: 9 }); }
     // laleler (renkli)
     LALE.ciz(x - 60 * s, y - 330 * s, .75 * s, { sap: 0, tip: 'ist', cesit: 'ist', egim: -.15 + Math.sin(t) * .02 });
     LALE.ciz(x + 150 * s, y - 320 * s, .7 * s, { sap: 0, tip: 'ist', cesit: 'istSari', egim: .2 });
@@ -206,8 +209,9 @@ const SET2 = (() => {
   function bacaci(x, y, t) {
     fill(F([[x + 60, y], [x + 80, y], [x + 300, y - 700], [x + 280, y - 700]]), .1, { th: 1.25, id: 9 });
     for (let k = 1; k < 10; k++) { const p = k / 10; fill(F([[x + 60 + p * 220, y - p * 700], [x + 80 + p * 220 + 40, y - p * 700 - 6], [x + 84 + p * 220 + 40, y - p * 700], [x + 64 + p * 220, y - p * 700 + 6]]), .1, { th: 0, id: 9 }); }
-    INSAN.adam({ x, y, h: 600, yon: 1, sapka: true, kenar: .45, kolOn: { a: 2.0, b: .9 }, kolArka: { a: .2, b: .2 } });
-    LALE.ciz(x + 130, y - 690, .9, { sap: 90, cesit: 'semper', egim: .2 });
+    const r = INSAN.adam({ x, y, h: 600, yon: 1, sapka: true, kenar: .45, kolOn: { a: 1.35, b: 1.6 }, kolArka: { a: .2, b: .2 } }), [ex, ey] = r.el;
+    LALE.ciz(ex + 4, ey - 78, .9, { sap: 104, cesit: 'semper', egim: .06 });
+    fill(E2(ex, ey + 10, 9, 13), .3, { th: .6, id: 5 });   // yumruk sapın önünde
   }
   // kitap: kapalı (sırt) ya da açık; o.acik
   function kitap(x, y, w, h, o = {}) {
@@ -232,7 +236,7 @@ const SET2 = (() => {
     fill(R(-600, 560, 3100, 400), o.gece ? .12 : .7, { th: .01, id: 8 });
     // kayık bir servinin önünden ya da arkasından geçmez: dikey servi + yatay kayık haç silueti verir (Fable son okuması, 22 Kasım)
     const servis = o.servi || [[300, 480], [520, 420], [1950, 500]];
-    for (let k = 0; k < 3; k++) { const x = 300 + k * 600 + Math.sin(t * .5 + k) * 20; if (servis.some(([sx]) => Math.abs(sx - x) < 190)) continue; fill(Sm([[x - 90, 640 + k * 30], [x + 90, 640 + k * 30], [x + 60, 660 + k * 30], [x - 60, 660 + k * 30]]), .08, { th: H0, id: 9 }); }
+    for (let k = 0; k < (o.kayik === false ? 0 : 3); k++) { const x = 300 + k * 600 + Math.sin(t * .5 + k) * 20; if (servis.some(([sx]) => Math.abs(sx - x) < 190)) continue; fill(Sm([[x - 90, 640 + k * 30], [x + 90, 640 + k * 30], [x + 60, 660 + k * 30], [x - 60, 660 + k * 30]]), .08, { th: H0, id: 9 }); }
     if (o.kosk !== false) SET.kosk(o.kx ?? 1100, 900, o.kw ?? 700, 260, { gece: o.gece });
     for (const [x, h] of servis) SET.servi(x, 960, h);
     fill(R(-600, 900, 3100, 600), o.gece ? .1 : .35, { type: 'persp', y0: 900, D: 200, p0: 7, p1: 14, id: 8 });
@@ -257,8 +261,8 @@ const SET2 = (() => {
   // kalabalık: sırtı dönük siluetler, meşale ışıkları (şiddet yok); o.n kişi, o.t
   function kalabalik(t, o = {}) {
     const n = o.n ?? 14;
-    for (let i = 0; i < n; i++) { const r = i % 3, x = 100 + (i * 137) % 1800, y = 980 + r * 60; INSAN.adam({ x, y, h: 420 + r * 70, yon: i % 2 ? 1 : -1, arka: o.karisik ? i % 3 !== 1 : true, giysi: 'kaftan', sapka: i % 3 === 0 ? 'kavuk' : 'sarik', sarikTon: .45, kenar: .35, kolOn: { a: .3 + Math.sin(t * 2 + i) * .1, b: .4 } }); }
-    for (let k = 0; k < (o.mesale ?? 3); k++) { const x = 400 + k * 520, y = 520 + Math.sin(t + k) * 6; fill(R(x - 4, y, 8, 140), .1, { th: HV, id: 9 }); SET.alev(x, y, t + k, 1.4); SET.isik({ x, y: y - 20, r1: 340, a: .7 }); }
+    for (let i = 0; i < n; i++) { const r = i % 3, x = 100 + (i * 137) % 1800, y = 980 + r * 60; INSAN.adam({ x, y, h: 420 + r * 70, yon: i % 2 ? 1 : -1, arka: o.karisik ? i % 3 !== 1 : true, giysi: 'kaftan', sapka: i % 3 === 0 ? 'kavuk' : 'sarik', sarikTon: .45, kenar: .35, kolOn: { a: .1 + Math.sin(t * 2 + i) * .04, b: .15 } }); }   // kollar gövdede: öne uzanan ışıklı kol ucundaki el sopa gibi okunuyordu
+    for (let k = 0; k < (o.mesale ?? 3); k++) { const x = 400 + k * 520, y = 520 + Math.sin(t + k) * 6; SET.mesale(x, y, t + k, 1.5); SET.isik({ x, y: y - 40, r1: 340, a: .7 }); }
   }
   // saray kapısı (gece): iki kule arasında kemerli kapı; kandil
   function sarayKapi(t, o = {}) {
@@ -268,8 +272,9 @@ const SET2 = (() => {
     fill(R(760, 520, 400, 440), .03, { th: HV, id: 9 }); fill(R(956, 520, 8, 440), .25, { th: HV, id: 9 });   // düz, kapalı çift kanat ahşap kapı
     for (let k = 0; k < 4; k++) fill(R(760, 560 + k * 110, 400, 6), .2, { th: H0, id: 9 });
     fill(R(-600, 960, 3100, 600), .12, { type: 'persp', y0: 960, D: 200, p0: 7, p1: 14, id: 8 });
-    const a = o.kandil ?? 1; fill(R(1250, 560, 10, 140), .2, { th: HV, id: 9 });
-    if (a > .05) { SET.kandil(1255, 540, t, o.kandilS ?? 1.4); SET.isik({ x: 1255, y: 540, r1: (o.kandilR ?? 420) * a, a: .8 * a }); }
+    // duvar meşalesi: demir kol duvardan çıkar, meşale halkasız kucakta durur (direk üstündeki kandil mızrak gibi okunuyordu)
+    const a = o.kandil ?? 1; fill(F([[1210, 650], [1262, 628], [1262, 638], [1210, 660]]), .06, { th: H0, id: 9 }); fill(R(1204, 600, 10, 80), .06, { th: HV, id: 9 });
+    SET.mesale(1255, 560, t, (o.kandilS ?? 1.4) * .75, { boy: 110, alev: a }); if (a > .05) SET.isik({ x: 1255, y: 520, r1: (o.kandilR ?? 420) * a, a: .8 * a });
   }
   // sedir (boş taht yerine sivil oturma): uzun minder, yastıklar, pencere ışığı
   function sedir(t, o = {}) {

diff --git a/lale-cilginligi/lib/setler.js b/lale-cilginligi/lib/setler.js
@@ -20,6 +20,24 @@ const SET = (() => {
     p.bezierCurveTo(x + 12 * s, y - 24 * s * f, x + 11 * s, y - 6 * s, x + 9 * s, y + 8); p.closePath();
     GR.fill(p, GR.tone(1), { th: HV, id: 3 });
   }
+  // meşale: sapın ucunda sargılı baş + üç dilli, ayrı ayrı titreyen alev. Tek dilli beyaz alev sopa ucunda simetrik sivri uç
+  // verip mızrak gibi okunuyordu (Fable yön okuması, hassasiyet, 23 Kasım). o.boy sap boyu, o.sapsiz
+  function mesale(x, y, t, s = 1, o = {}) {
+    const L = (o.boy ?? 140) * s;
+    if (!o.sapsiz) fill(F([[x - 4 * s, y], [x + 4 * s, y], [x + 5 * s, y + L], [x - 5 * s, y + L]]), .1, { th: HV, id: 9 });
+    fill(F([[x - 13 * s, y + 2 * s], [x + 13 * s, y + 2 * s], [x + 10 * s, y - 30 * s], [x - 10 * s, y - 30 * s]]), .3, { th: .8, id: 9 });   // sargı
+    for (const k of [-9, -20]) fill(R(x - 12 * s, y + k * s, 24 * s, 3 * s), .06, { th: HV, id: 9 });
+    // alev: geniş gövdeli, ucu hafif yana kıvrılan tek alev + yan yalaz + yükselen kıvılcımlar. Üç eşit dil taç ya da beyaz lale,
+    // ince uzun dil bıçak gibi okunuyordu; kıvılcım ateşi en açık okutan işaret
+    const al = o.alev ?? 1; if (al < .04) return;   // o.alev: 0..1 alev boyu (sönen meşale sargılı başıyla kalır)
+    const yb = y - 26 * s, f = 1 + .12 * Math.sin(t * 8.3) + .06 * Math.sin(t * 13.1 + 1), w = Math.sin(t * 2.1) * .5 + .5;
+    const h = 72 * s * f, lean = (6 + 9 * w) * s, lk = 1 + .25 * Math.sin(t * 10.7 + 2);
+    const pts = [[x - 17 * s, yb + 4 * s], [x - 24 * s, yb - 14 * s], [x - 21 * s, yb - 34 * s], [x - 11 * s + lean * .3, yb - h * .64], [x - 2 * s + lean * .8, yb - h * .9], [x + lean, yb - h],
+      [x + 9 * s + lean * .5, yb - h * .68], [x + 15 * s, yb - h * .5], [x + 25 * s + lean * .3, yb - h * .56 * lk], [x + 23 * s, yb - 26 * s], [x + 21 * s, yb - 8 * s], [x + 17 * s, yb + 4 * s]];
+    const sc = .35 + .65 * al; GR.fill(Sm(pts.map(([px, py]) => [x + (px - x) * sc, yb + (py - yb) * sc])), GR.tone(1), { th: HV, id: 3 });
+    if (al > .5) for (let k = 0; k < 3; k++) { const ph = (t * .9 + k * .37 + x * .001) % 1, ex = x + lean * .6 + Math.sin(k * 7 + t * 3) * 10 * s + (k - 1) * 9 * s, ey = yb - h - ph * 70 * s, r = 3.2 * s * (1 - ph);
+      if (r > .6) GR.fill(E2(ex, ey, r, r), GR.tone(1), { th: HV, id: 3 }); }
+  }
   function mum(x, y, t, s = 1) { fill(R(x - 6 * s, y, 12 * s, 40 * s), .85, { th: HV, id: 9 }); alev(x, y, t, s * .7); }
   // ── HOLLANDA ──
   // basamaklı alınlıklı kanal evi (trapgevel); x sol, y taban, w genişlik, h gövde boyu; o.ton cephe, o.pen pencere ışığı
@@ -139,7 +157,7 @@ const SET = (() => {
     fill(E2(x + 72 * s, y - 6 * s + Math.sin(t * 2) * 2, 14 * s, 9 * s), .2, { th: 0, id: 9 });
     if (o.mum !== false) mum(x - 4 * s, y - 86 * s, t, s);
   }
-  function kandil(x, y, t, s = 1) { fill(E2(x, y, 12 * s, 8 * s), .7, { type: 'rad', cx: x, cy: y, id: 9 }); alev(x, y - 6 * s, t, s * .5); }
+  function kandil(x, y, t, s = 1) { fill(E2(x, y, 12 * s, 8 * s), .7, { th: .5, id: 9 }); alev(x, y - 6 * s, t, s * .5); }   // halka tarama hedef gibi okunuyordu
   // köşk (Sadabad tipi): ince sütunlu ön cephe, geniş saçak, kubbe değil (sivil yapı)
   function kosk(x, y, w, h, o = {}) {
     fill(R(x, y - h, w, h), .2, { th: HV, id: 9 });
@@ -149,5 +167,5 @@ const SET = (() => {
     for (let i = 0; i < n; i++) fill(Sm([[x + i * w / n + 10, y - h * .25], [x + i * w / n + 10, y - h * .8], [x + (i + .5) * w / n, y - h * .92], [x + (i + 1) * w / n - 10, y - h * .8], [x + (i + 1) * w / n - 10, y - h * .25]]), o.gece ? .06 : .7, { th: HV, id: o.gece ? 9 : 10 });
     fill(R(x - 40, y, w + 80, 24), .3, { th: H0, id: 9 });
   }
-  return { isik, huzme, alev, mum, ev, kasaba, gok, degirmen, tarla, meyhane, masa, saksi, terazi, servi, kaplumbaga, kandil, kosk, E2, R, rnd };
+  return { isik, huzme, alev, mesale, mum, ev, kasaba, gok, degirmen, tarla, meyhane, masa, saksi, terazi, servi, kaplumbaga, kandil, kosk, E2, R, rnd };
 })();

diff --git a/lale-cilginligi/lib/film.js b/lale-cilginligi/lib/film.js
@@ -160,8 +160,8 @@ function txt(ctx, s, x, y, o = {}) {
   if (o.panel) { const wd = ctx.measureText(s).width, pp = o.px || 48, pa = o.panel === true ? .78 : o.panel, al = o.align || 'center';
     // ortalı yazıda eski elips; sola/sağa hizalı yazıda yazının tamamını örten yumuşak şerit (eski elips çapaya ortalanıyordu,
     // yazının yarısı panelsiz kalıyordu: Fable son okuması, 22 Kasım)
-    if (al === 'center') softPanel(ctx, x, y, wd * .5 + pp * 1.6, pp * 1.5, pa);
-    else { const x0 = al === 'left' ? x : x - wd; softBand(ctx, x0, x0 + wd, y, pp * 1.6, pp * 1.15, pa); } }
+    // ortalı yazı da şerit: elipste uzun yazının uçları açık zeminde panelsiz kalıyor, soluk okunuyordu (Fable yön okuması, 23 Kasım)
+    const x0 = al === 'left' ? x : al === 'right' ? x - wd : x - wd / 2; softBand(ctx, x0, x0 + wd, y, pp * 1.6, pp * 1.15, pa); }
   ctx.fillStyle = o.col || PAPER_CSS; ctx.fillText(s, x, y);
   ctx.restore();
 }
@@ -173,7 +173,11 @@ function quote(ctx, s, x, y, lt, o = {}) {
   ctx.font = FONT.alinti(px); const L = wrapLines(ctx, s, o.maxW || 1240), y0 = y - (L.length - 1) * lh / 2;
   const t0 = o.t0 || 0, per = o.per ?? .5, aAll = clamp((lt - t0) / .5);
   const kpx = Math.max(40, Math.round(px * .42)), kEk = o.kaynak ? kpx + 34 : 0;   // künye: telefon kuralı ≥ 40 px; panel künyeyi de kapsar
-  if (o.panel !== false && aAll > 0) { let wd = 0; for (const l of L) wd = Math.max(wd, ctx.measureText(l).width); ctx.globalAlpha = A0 * aAll; softPanel(ctx, x, y + kEk / 2, wd * .5 + px * 1.8, L.length * lh * .5 + px * 1.2 + kEk / 2, o.panel ?? .8); }
+  if (o.panel !== false && aAll > 0) { let wd = 0; for (const l of L) wd = Math.max(wd, ctx.measureText(l).width);
+    // panel künye satırını da örter (künye alıntıdan uzun olunca elipsin dışında soluk kalıyordu)
+    if (o.kaynak) { ctx.save(); ctx.font = FONT.baslik(kpx, 600); ctx.letterSpacing = '3px'; wd = Math.max(wd, ctx.measureText(o.kaynak).width); ctx.restore(); }
+    const ust = y0 - lh * .5, alt = o.kaynak ? y0 + (L.length - 1) * lh + px * .62 + 30 + kpx : y0 + (L.length - 1) * lh + lh * .5;
+    ctx.globalAlpha = A0 * aAll; softBand(ctx, x - wd / 2, x + wd / 2, (ust + alt) / 2, px * 1.4, (alt - ust) / 2 + px * .75, o.panel ?? .8); }
   ctx.textAlign = 'center'; ctx.textBaseline = 'middle'; ctx.fillStyle = o.col || PAPER_CSS;
   L.forEach((l, i) => { const a = clamp((lt - t0 - i * per) / .6); if (a <= 0) return; ctx.globalAlpha = A0 * E.sine(a); ctx.fillText(l, x, y0 + i * lh + (1 - E.out3(a)) * 10); });
   if (o.kaynak) { const a = clamp((lt - t0 - L.length * per) / .6); ctx.globalAlpha = A0 * E.sine(a); ctx.font = FONT.baslik(kpx, 600); ctx.letterSpacing = '3px'; ctx.fillText(o.kaynak, x, y0 + (L.length - 1) * lh + px * .62 + 30 + kpx / 2); }

diff --git a/lale-cilginligi/lib/kapak.js b/lale-cilginligi/lib/kapak.js
@@ -58,7 +58,7 @@
     }, [.06, 0, 0]);
     YAZI.bas(ctx, cam); LALE.boya(ctx, cam, 1, { kay: 2.5, alevK: 2.3, alevN: 1 });
     post(ctx, 0);
-    yazi(ctx, o.satir || ['GÖRMEDEN', 'ALDILAR'], 60, o.ty ?? 300, o.px ?? 285, { col: '#efe6d2', golge: 'rgba(0,0,0,.9)' });   // kapak merak açar, başlık tamamlar: kapak yazısı başlığın sözcüklerini tekrar etmez
+    yazi(ctx, o.satir || ['GÖRMEDEN', 'ALDILAR'], 60, o.ty ?? 268, o.px ?? 285, { col: '#efe6d2', golge: 'rgba(0,0,0,.9)' });   // kapak merak açar, başlık tamamlar: kapak yazısı başlığın sözcüklerini tekrar etmez
   }
   window.kapak = (v, o = {}) => { baseT(ctx); ctx.fillStyle = '#000'; ctx.fillRect(0, 0, W, H); (v === 'A' ? A : B)(o); return cv; };
 })();
